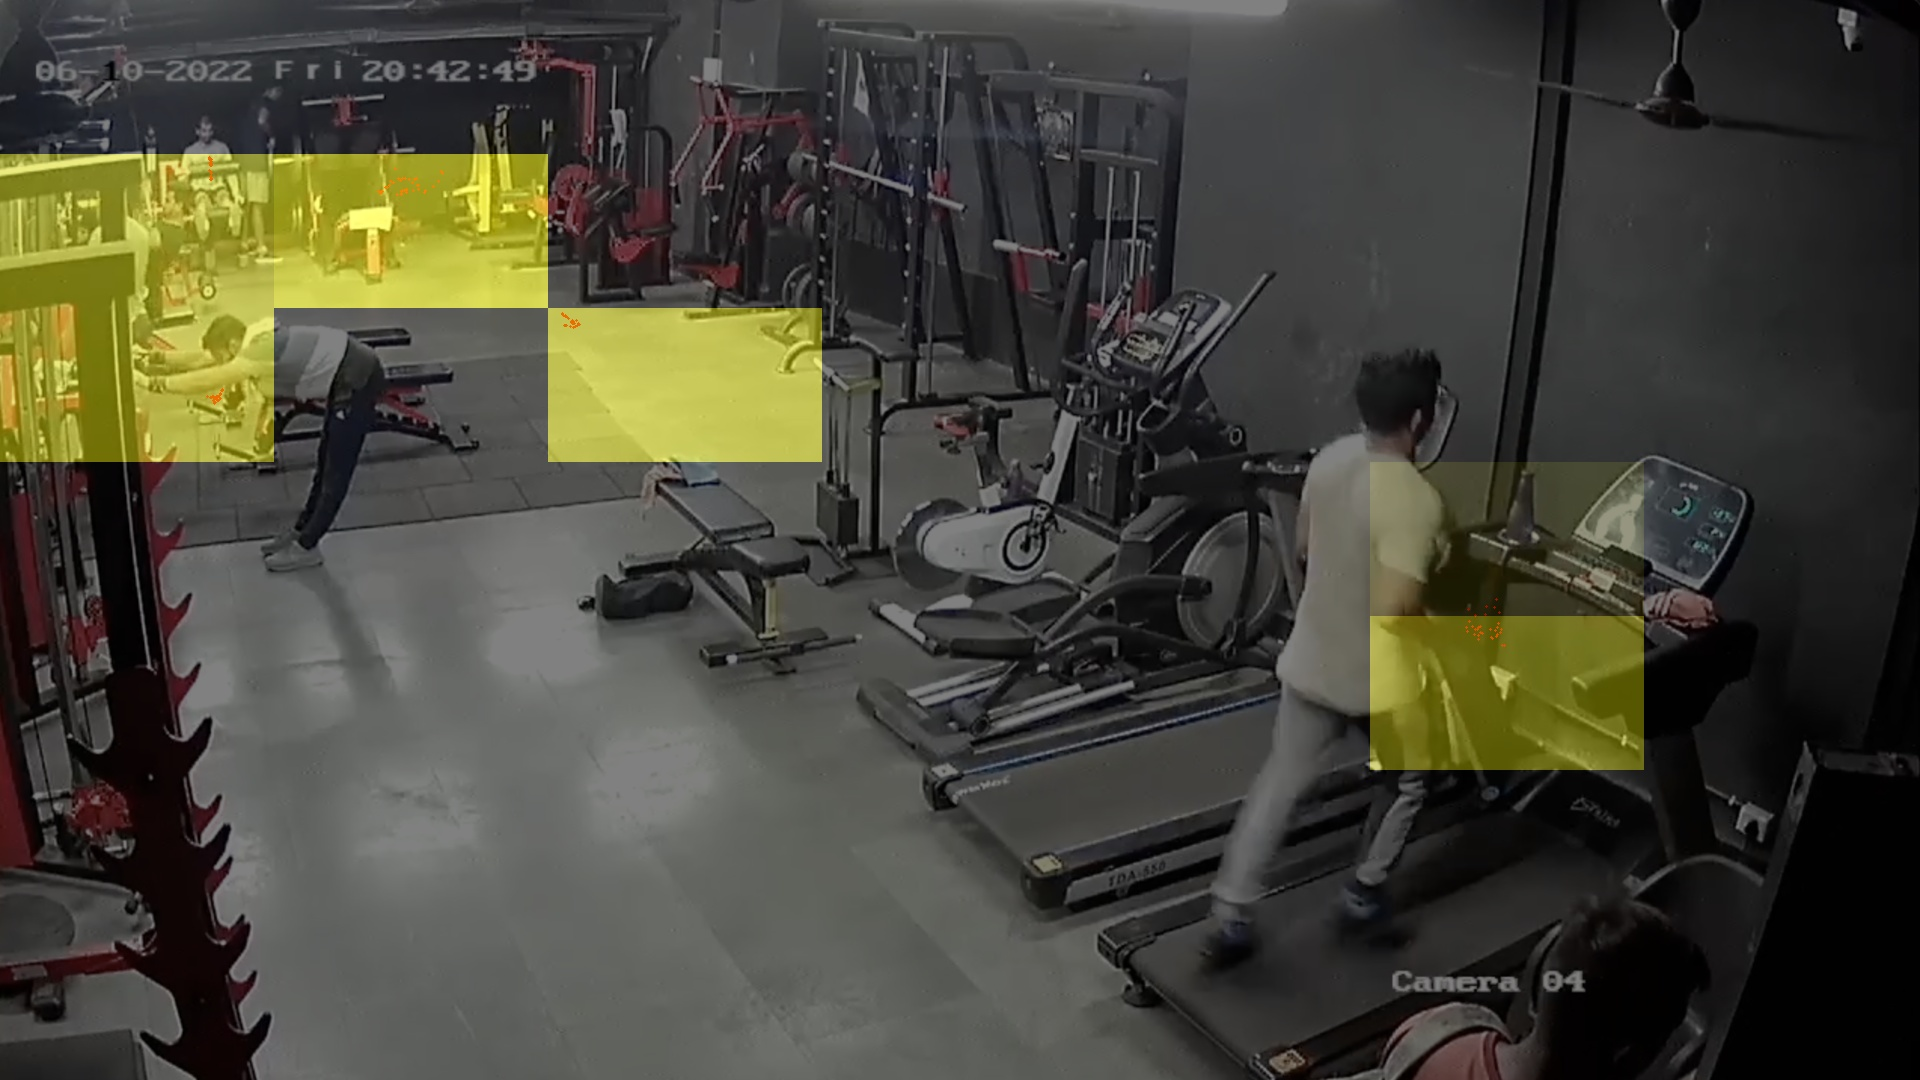
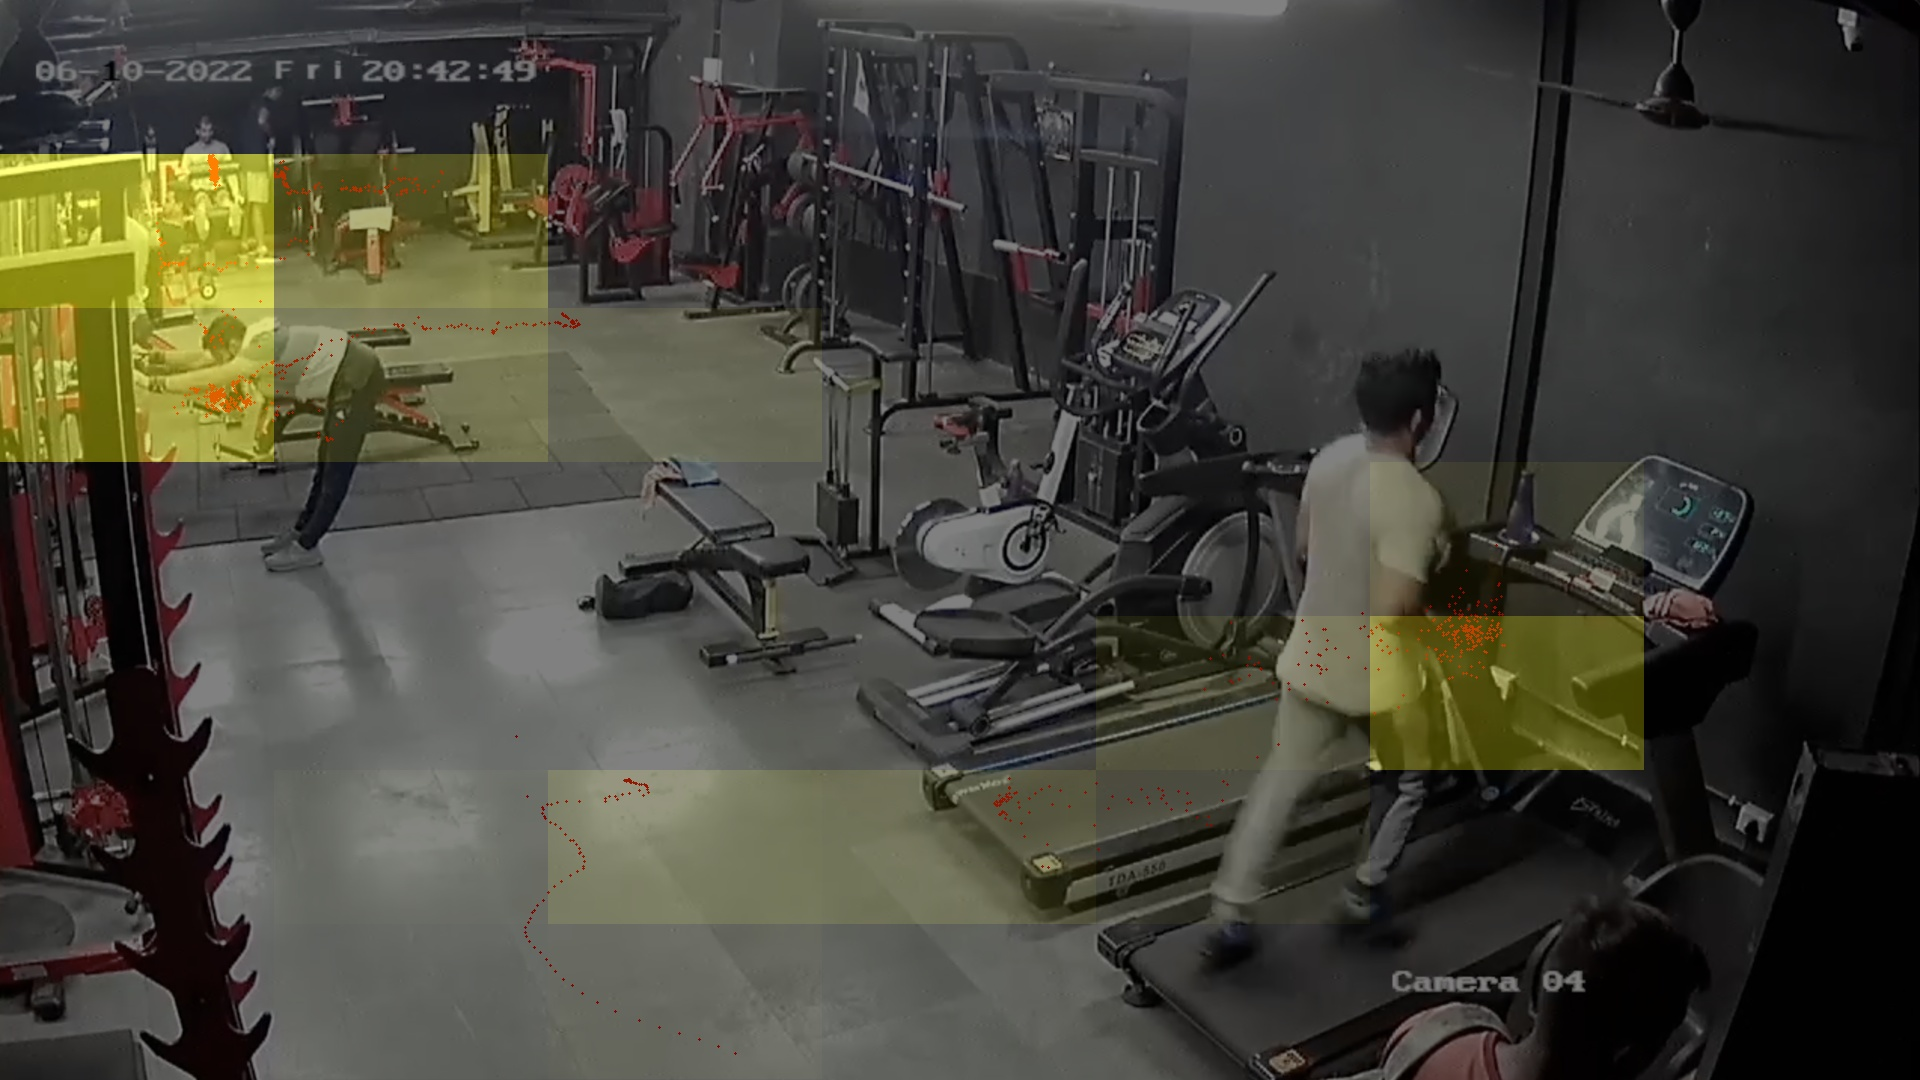
React_Native_App 추가
리액트 네이티브로 제작한 앱 추가
안드로이드 스튜디오 앱은 이후 추가할 예정

diff --git a/SmartGym/yolo52.py b/SmartGym/yolo52.py
@@ -154,7 +154,7 @@ cv2.namedWindow('ROI')
 cv2.setMouseCallback('ROI', points)
 
 cap = cv2.VideoCapture('vid4.mp4')
-#cap = cv2.VideoCapture(0)
+#cap = cv2.VideoCapture('http://192.168.35.135:81/stream')
 bg = cv2.imread('background.jpg')
 bg = cv2.resize(bg, (1920, 1080))
 
@@ -337,47 +337,46 @@ while True:
 
 
 
-# Divide the image into 7x7 equal regions
+# 히트맵 구역 7x7로 나누기
 region_width = bg.shape[1] // 7
 region_height = bg.shape[0] // 7
 
-# Create a numpy array to store the count of red dots in each region
+# 각 구역의 빨간 점 개수를 저장할 배열
 region_counts = np.zeros((49,), dtype=int)
 
-# Iterate through the detected centroids and count the red dots in each region
+# 각 구역의 빨간 점 개수를 계산
 for centroid in center_points:
-    # Determine the region index based on the centroid's coordinates
     region_x = centroid[0] // region_width
     region_y = centroid[1] // region_height
     region_index = region_y * 7 + region_x
 
-    # Increment the count for the corresponding region
+    # 범위를 벗어나는 경우 무시
     if region_index < 49:
         region_counts[region_index] += 1
 
-# Determine the maximum count among all regions
+# 가장 많은 빨간 점 개수 계산
 max_count = np.max(region_counts)
 
-# Create a blank overlay image with transparency
+# 히트맵 이미지 생성
 overlay = np.zeros_like(bg, dtype=np.uint8)
 
-# Draw rectangles on the overlay based on the count in each region
+# 각 구역의 빨간 점 개수에 따라 색칠
 for region_index, count in enumerate(region_counts):
-    # Determine the region coordinates
+    # 구역의 좌표 계산
     region_x = (region_index % 7) * region_width
     region_y = (region_index // 7) * region_height
 
-    # Determine the color based on the count
+    # 빨간 점 개수에 따라 색 결정
     color = (0, int(255 * (count / max_count)), int(255 * (count / max_count)))
 
-    # Draw a rectangle on the overlay image
+    # 이미지 위에 사각형 그리기
     cv2.rectangle(overlay, (region_x, region_y), (region_x + region_width, region_y + region_height),
                   color, -1)
 
-# Apply the overlay image onto the background image
+# 히트맵 이미지와 원본 이미지를 합성
 heatmap = cv2.addWeighted(overlay, 0.5, bg, 0.5, 0)
 
-# Save the resulting heatmap image
+# 히트맵 이미지 저장
 cv2.imwrite(output_filename, heatmap)
 
 cap.release()

diff --git a/SmartGym/testcam.py b/SmartGym/testcam.py
@@ -1,0 +1,21 @@
+import cv2
+
+video = cv2.VideoCapture('http://192.168.35.135:81/stream')
+frame_size = (int(video.get(cv2.CAP_PROP_FRAME_WIDTH)), int(video.get(cv2.CAP_PROP_FRAME_HEIGHT)))
+
+while True:
+    ret, frame = video.read()
+    if not ret:
+        break
+
+    cv2.imshow('ESP32-CAM', frame)
+
+    # Press 'Esc' to stop
+    key = cv2.waitKey(25)
+    if key == 27:
+        break
+
+if video.isOpened():
+    video.release()
+
+cv2.destroyAllWindows()
